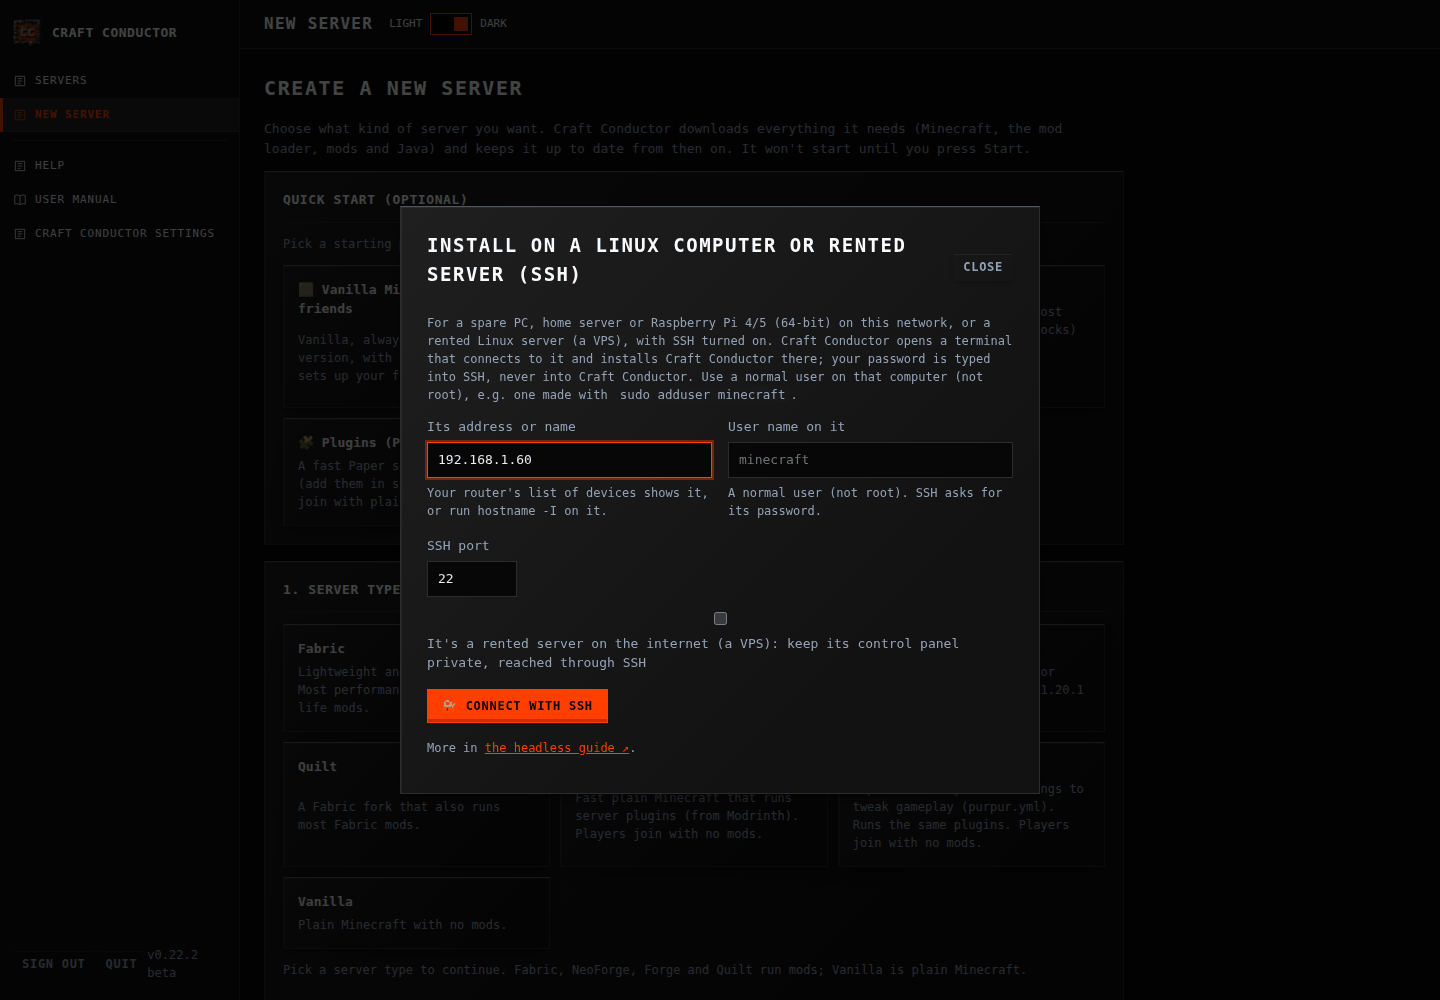
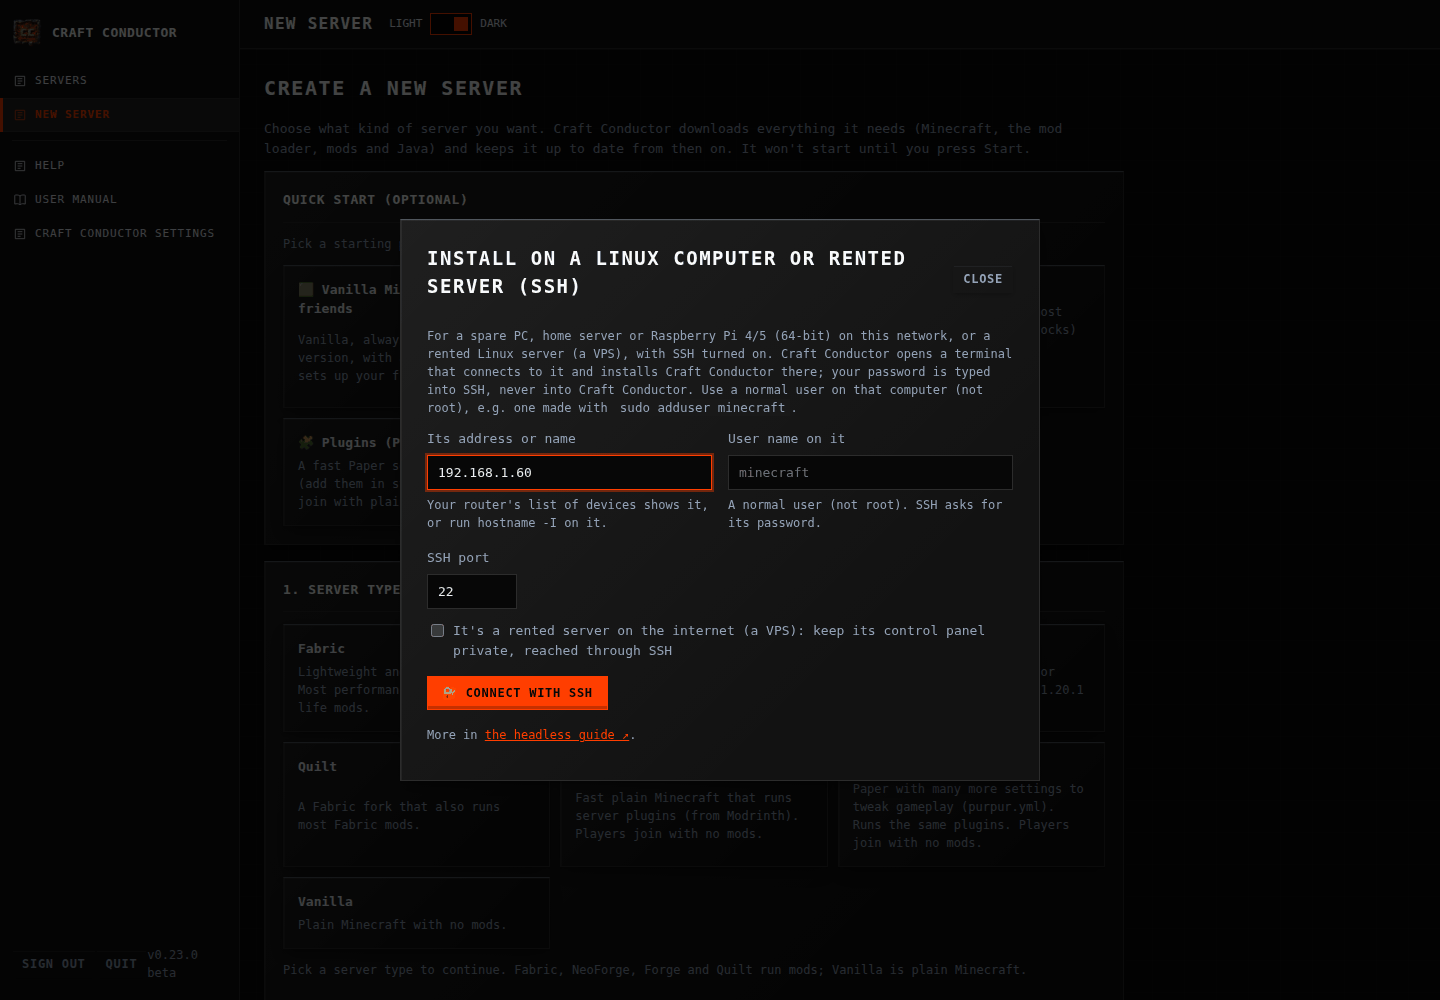
Every checkbox sits beside its words, on every screen
A label starting with a checkbox is now a no-wrap flex row (label:has),
so a long label no longer drops onto the line below the box (.row) or
stacks under it (plain labels are grids). It fixes the SSH install
dialog's "rented server" box, the mods page's alpha/beta box, and the New
server form's beta, structures and EULA boxes on phones, and any label
built the same way later.

The browser test now checks every visible checkbox on the pages it visits,
at desktop and phone widths; the ssh-install screenshot is retaken.

Claude-Session: https://claude.ai/code/session_01PAt9WSdP4zNih4Gixuh8DY

Changed region(s): [[0.2812, 0.217, 0.6875, 0.558], [0.2812, 0.62, 0.6875, 0.775], [0.6562, 0.248, 0.6875, 0.279]]

diff --git a/src/craft_conductor/webui/style.css b/src/craft_conductor/webui/style.css
@@ -339,6 +339,12 @@ details.advanced[open] > summary { margin-bottom: 8px; }
 .row.check-row { flex-wrap: nowrap; align-items: flex-start; }
 .row.check-row input { margin-top: 3px; flex: none; }
 .row.check-row > span { min-width: 0; }
+/* Every label that starts with a checkbox keeps it beside its words at any width: a .row would
+   wrap long words onto the line below it, and a plain label (a grid) stacks them. (Its gap stays
+   the label's own.) Older browsers without :has get .check-row where it's set. */
+label:has(> input[type=checkbox]:first-child) { display: flex; flex-wrap: nowrap; align-items: flex-start; }
+label:has(> input[type=checkbox]:first-child) > input[type=checkbox] { flex: none; min-width: 0; margin-top: 3px; }
+label:has(> input[type=checkbox]:first-child) > :not(input) { min-width: 0; }
 /* a list of checkboxes, each beside its words: as many columns as fit, one on a phone */
 .grid > label { align-content: start; }  /* (a field beside a taller one keeps its own height) */
 .checks { display: grid; gap: 10px 24px; grid-template-columns: repeat(auto-fill, minmax(min(100%, 300px), 1fr)); align-items: start; }

diff --git a/CHANGELOG.md b/CHANGELOG.md
@@ -11,7 +11,7 @@ its fix will say which version it's in.
 - The **Remote access & phones** dialog keeps its title and **Close** at the top while you scroll, so you don't have to scroll back up to close it.
 
 **Fixed**
-- On a server's **Settings** page, and for **Allow access to this control panel from other devices**, checkboxes no longer end up above their words (or several lines away from them) on some screen widths: each sits beside its words. The Settings checkboxes are now grouped together under the fields they belong with.
+- Checkboxes no longer end up above their words, or alone on a line, on some screen widths: every checkbox in Craft Conductor now sits beside its words, on a phone too. It showed on a server's **Settings** page, **Allow access to this control panel from other devices**, **It's a rented server on the internet** (Install on a Linux computer), **Also show mods with only alpha/beta builds**, and on a phone in **New server** (**Show beta versions**, **Villages, temples and other structures**, **I accept the Minecraft EULA**). The Settings checkboxes are now grouped together under the fields they belong with.
 - Pairing a phone at the **Tailscale, secure** address opened a page saying "This address isn't allowed… add it to [web] allowed_hosts" when Tailscale was already serving the control panel (for example, set up before Craft Conductor was reinstalled), because **Use Tailscale for the phone app** was never pressed. The Tailscale address is now allowed as soon as Craft Conductor offers it.
 
 ## 0.23.0 (2026-10-05)
